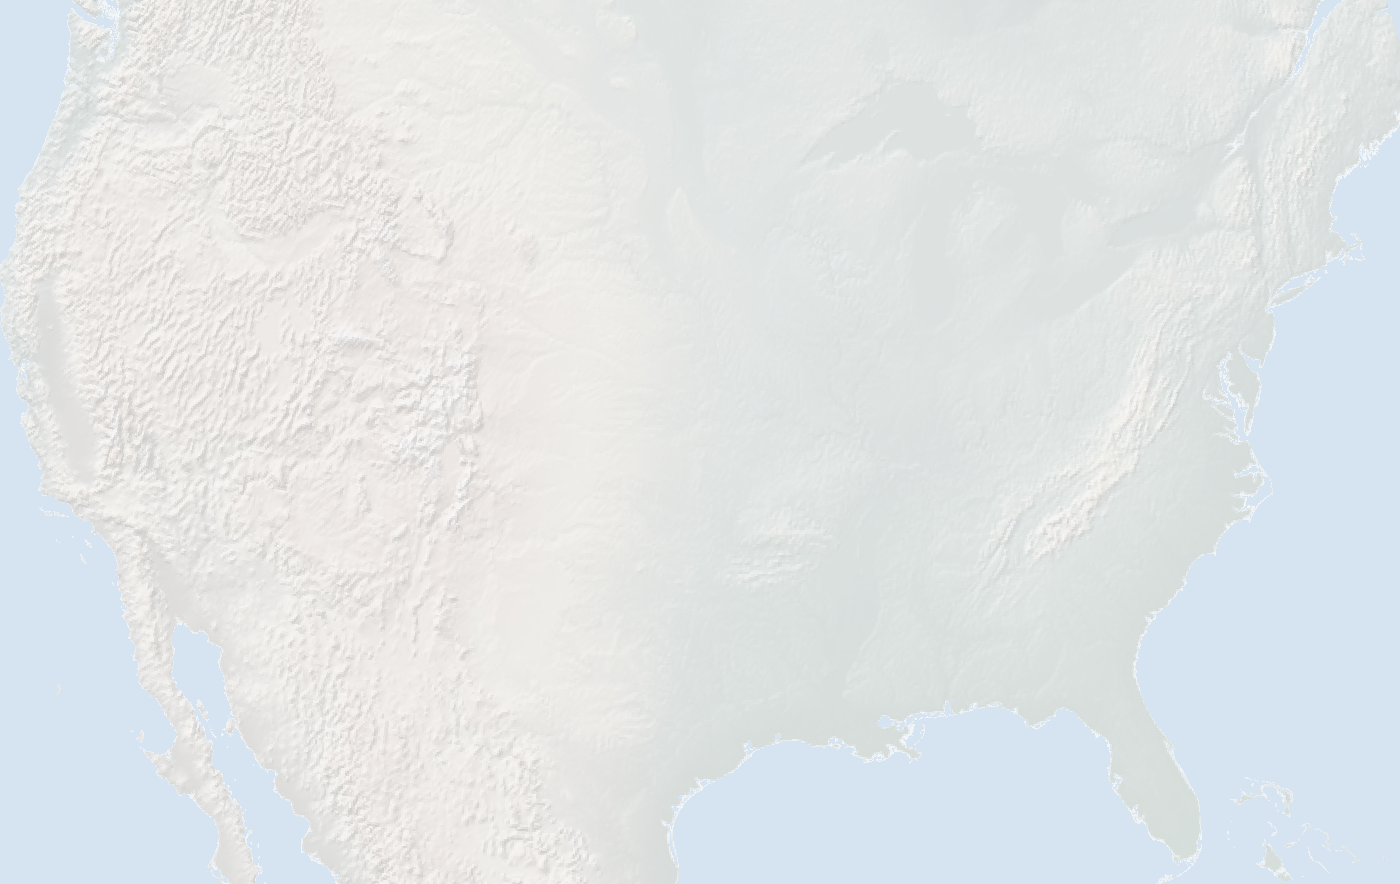
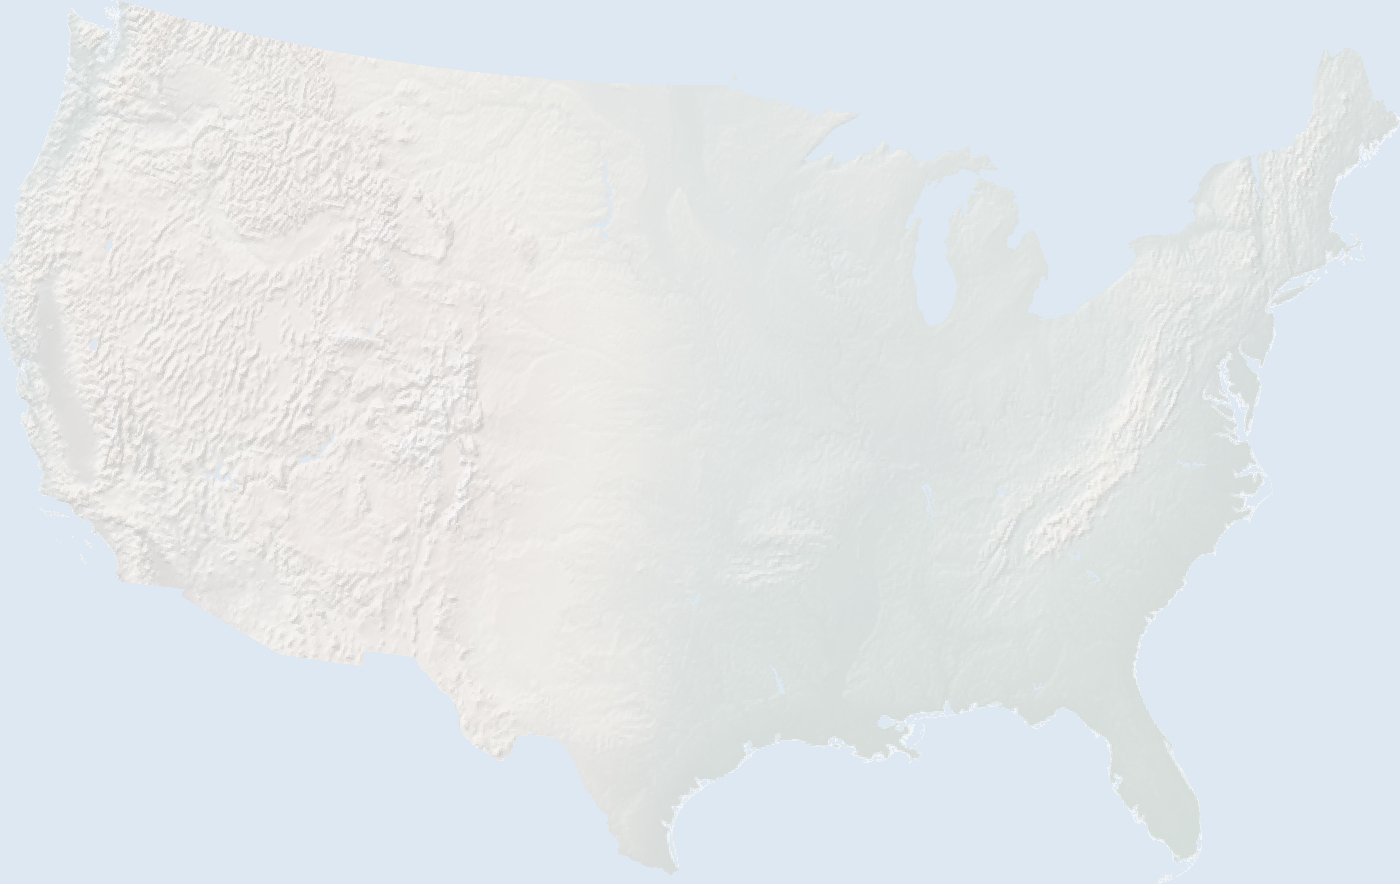
Fixed some visual issues with the basemap

diff --git a/index.html b/index.html
@@ -177,14 +177,17 @@ function drawMap(canvas,valueFn,opts={}){if(!MB)MB=computeMapBounds();const ctx=
     ctx.beginPath();ctx.arc(sel.x,sel.y,dr,0,6.2832);ctx.fillStyle=color(sel.v);ctx.fill();ctx.lineWidth=1.5;ctx.strokeStyle='#111';ctx.beginPath();ctx.arc(sel.x,sel.y,dr,0,6.2832);ctx.stroke();}}
 function drawBasemap(ctx,px,py,z,tx,ty,s){
   const dpr=Math.min(2,window.devicePixelRatio||1);
-  if(reliefImg&&reliefImg.complete&&reliefImg.naturalWidth){const dx=px(MB.minx)*z+tx,dy=py(MB.maxy)*z+ty,dw=(MB.maxx-MB.minx)*s*z,dh=(MB.maxy-MB.miny)*s*z;ctx.save();ctx.globalAlpha=0.55;ctx.drawImage(reliefImg,dx,dy,dw,dh);ctx.restore();}
+  // water as a full-canvas background (no rectangular relief edge when panning)
+  ctx.save();ctx.fillStyle='#dde8f3';ctx.fillRect(0,0,ctx.canvas.width,ctx.canvas.height);ctx.restore();
+  if(reliefImg&&reliefImg.complete&&reliefImg.naturalWidth){const dx=px(MB.minx)*z+tx,dy=py(MB.maxy)*z+ty,dw=(MB.maxx-MB.minx)*s*z,dh=(MB.maxy-MB.miny)*s*z;ctx.drawImage(reliefImg,dx,dy,dw,dh);}
   const T=(lon,lat)=>{const a=albers(lon,lat);return [px(a[0])*z+tx,py(a[1])*z+ty];};
   const trace=ring=>{ctx.beginPath();for(let i=0;i<ring.length;i++){const p=T(ring[i][0],ring[i][1]);if(i===0)ctx.moveTo(p[0],p[1]);else ctx.lineTo(p[0],p[1]);}};
-  if(BM.coast){ctx.strokeStyle='rgba(108,150,182,0.6)';ctx.lineWidth=Math.max(0.5,0.6*Math.min(2.5,Math.sqrt(z)))*dpr;for(const ln of BM.coast){trace(ln);ctx.stroke();}}
-  ctx.fillStyle='#dceaf6';for(const ring of BM.lakes){trace(ring);ctx.closePath();ctx.fill();}
+  if(BM.coast){ctx.strokeStyle='rgba(132,158,182,0.4)';ctx.lineWidth=Math.max(0.4,0.5*Math.min(2.2,Math.sqrt(z)))*dpr;for(const ln of BM.coast){trace(ln);ctx.stroke();}}
+  if(BM.lakes){ctx.fillStyle='#dceaf6';for(const ring of BM.lakes){trace(ring);ctx.closePath();ctx.fill();}}
   ctx.strokeStyle='rgba(130,175,210,0.5)';ctx.lineWidth=Math.max(0.5,0.6*Math.min(2,Math.sqrt(z)))*dpr;for(const ln of BM.rivers){trace(ln);ctx.stroke();}
   if(BM.roads){ctx.strokeStyle='rgba(210,160,110,0.35)';ctx.lineWidth=Math.max(0.45,0.55*Math.min(2,Math.sqrt(z)))*dpr;for(const ln of BM.roads){trace(ln);ctx.stroke();}}
   ctx.strokeStyle='rgba(120,128,140,0.16)';ctx.lineWidth=0.55*dpr;for(const ring of BM.states){trace(ring);ctx.stroke();}
+  if(BM.natl){ctx.strokeStyle='rgba(120,140,162,0.5)';ctx.lineWidth=Math.max(0.4,0.5*Math.min(2.2,Math.sqrt(z)))*dpr;for(const ln of BM.natl){trace(ln);ctx.stroke();}}
 }
 function hitTest(canvas,mx,my,pf=0){let best=null,bd=120;const v=canvas._view||{z:1,tx:0,ty:0},rows=DATA.rows;for(let i=0;i<rows.length;i++){const o=rows[i];if(curState&&o.state!==curState)continue;if(o.lat<24||o.lat>50||o.lon<-125||o.lon>-66)continue;if(pf&&(o.pop||0)<pf)continue;const[X,Y]=albers(o.lon,o.lat),cx=canvas._px(X)*v.z+v.tx,cy=canvas._py(Y)*v.z+v.ty,d=(cx-mx)**2+(cy-my)**2;if(d<bd){bd=d;best=o;}}return best;}
 function drawHist(canvas,col){const ctx=canvas.getContext('2d'),W=canvas.width,H=canvas.height;ctx.clearRect(0,0,W,H);const bins=new Array(20).fill(0);for(const o of DATA.rows){const v=o.s[col];if(v==null||Number.isNaN(v))continue;let b=Math.floor(v/5);if(b>19)b=19;if(b<0)b=0;bins[b]++;}const mx=Math.max(...bins),bw=W/20;for(let i=0;i<20;i++){const h=mx?bins[i]/mx*(H-2):0;ctx.fillStyle=color(i/19);ctx.fillRect(i*bw+1,H-h,bw-2,h);}}

diff --git a/tools/build_basemap.py b/tools/build_basemap.py
@@ -72,8 +72,8 @@ def poly_rings(geom,tol):
             for gg in g.geoms: add(gg)
     add(geom); return out
 
-# ---- GSHHS intermediate: land polys, coastline, lakes ----
-land_polys=[]; lake_polys=[]; coast=[]
+# ---- GSHHS intermediate: land polys (for relief mask) + lakes; coastline built later ----
+land_polys=[]; lake_polys=[]; l1_orig=[]
 for level,area,arr in read_segments('gshhs','i'):
     if len(arr)<4: continue
     try: pg=Polygon(arr)
@@ -81,16 +81,14 @@ for level,area,arr in read_segments('gshhs','i'):
     if not pg.is_valid: pg=pg.buffer(0)
     if not pg.intersects(BBOX): continue
     if level=='1':
+        l1_orig.append(pg)
         land_polys.append(pg.intersection(BBOX))
-        coast+=clip_geom(pg.boundary,BBOX,0.0035,0.05)
     elif level=='2':
         try:
             if float(area)<120: continue
         except: pass
         lake_polys.append(pg.intersection(BBOX))
-GLAND=unary_union([p for p in land_polys if not p.is_empty]).buffer(0)
-GLAND_IN=GLAND.simplify(0.01).buffer(-0.03)
-print("coast lines",len(coast),"pts",sum(len(s) for s in coast),"| land polys",len(land_polys),"| cand lakes",len(lake_polys))
+print("land polys",len(land_polys),"| cand lakes",len(lake_polys))
 
 # ---- STATE BORDERS (TIGER) dissolved, clipped to land (drops coast/bay-crossing) ----
 EXCL={'02','15','60','66','69','72','78'}
@@ -107,18 +105,51 @@ for srec in sf.iterShapeRecords():
 state_unions=[unary_union(gs) for gs in bystate.values()]
 US_LAND=unary_union(state_unions).buffer(0)
 US_RC=US_LAND.simplify(0.02)
+US_CLIP=US_LAND.buffer(0.05)        # clip all map layers to the lower-48 (+ small margin)
+US_IN=US_RC.buffer(-0.03)           # interior, to drop coastal/national edges from state borders
+borders_line=unary_union([u.simplify(0.02).boundary for u in state_unions])
+
+# state borders: interstate lines only, kept inside the US
 states=[]
 for u in state_unions:
-    states+=clip_geom(u.boundary,GLAND_IN,0.006,0.04)
+    states+=clip_geom(u.boundary,US_IN,0.006,0.04)
 print("state border lines",len(states),"pts",sum(len(s) for s in states))
 
-# ---- border-adjacent lakes (Great Lakes etc.), intermediate detail ----
-borders=unary_union([u.simplify(0.02).boundary for u in state_unions])
-lakes=[]
+# split lakes: border-adjacent (Great Lakes etc.) render as water; interior lakes stay land
+border_lakes=[]; interior_lakes=[]
 for pg in lake_polys:
-    if pg.distance(borders)<0.03:
-        lakes+=poly_rings(pg,0.01)
-print("border-adjacent lakes",len(lakes))
+    (border_lakes if pg.distance(borders_line)<0.03 else interior_lakes).append(pg)
+
+# coastline: US ocean coast + bays (level-1 boundary) + border-lake shores, clipped to the US
+coast=[]
+for pg in l1_orig:
+    coast+=clip_geom(pg.boundary,US_CLIP,0.0035,0.05)
+for pg in border_lakes:
+    coast+=clip_geom(pg.boundary,US_CLIP,0.01,0.05)
+print("coast lines",len(coast),"pts",sum(len(s) for s in coast))
+
+# national land borders (US–Canada / US–Mexico): the US outline adjacent to real foreign LAND.
+# Buffer the US outward first so the TIGER/GSHHS coastline mismatch (thin slivers along the
+# coast) and offshore water detail (Puget Sound islands, Florida keys, …) are excluded — only
+# the true inland borders remain. Densify so straight-in-lon/lat spans (49th parallel) render
+# as proper Albers curves; simplify first to drop the Rio Grande's heavy meander.
+GLAND=unary_union([p for p in land_polys if not p.is_empty]).buffer(0)
+FOREIGN=GLAND.difference(US_LAND.buffer(0.1))
+def densify(coords,step=0.3):
+    out=[coords[0]]
+    for a,b in zip(coords,coords[1:]):
+        n=max(1,int(math.hypot(b[0]-a[0],b[1]-a[1])/step))
+        for k in range(1,n+1): out.append((a[0]+(b[0]-a[0])*k/n,a[1]+(b[1]-a[1])*k/n))
+    return out
+natl=[]
+def collect_natl(g):
+    if g.is_empty: return
+    if g.geom_type=='LineString':
+        if g.length>0.08: natl.append([[round(x,3),round(y,3)] for x,y in densify(list(g.simplify(0.01).coords))])
+    elif g.geom_type in ('MultiLineString','GeometryCollection'):
+        for gg in g.geoms: collect_natl(gg)
+collect_natl(US_LAND.boundary.intersection(FOREIGN.buffer(0.12)))
+print("national border lines",len(natl),"pts",sum(len(s) for s in natl))
 
 # ---- rivers (low res, major) cropped to US land ----
 rivers=[]
@@ -137,21 +168,27 @@ for srec in rsf.iterShapeRecords():
     for k in range(len(parts)-1):
         seg=pts[parts[k]:parts[k+1]]
         if len(seg)<2: continue
-        roads+=clip_geom(LineString(seg),BBOX,0.008,0.03)
+        roads+=clip_geom(LineString(seg),US_CLIP,0.008,0.03)
 print("interstate lines",len(roads),"pts",sum(len(s) for s in roads))
 
-# ---- RELIEF raster (Albers MB grid): land=light relief, water=faint blue ----
+# ---- RELIEF raster: land = shaded relief; everything outside the lower-48 = transparent ----
 RW=1400; RH=int(round(RW/aspect))
-mask=Image.new('L',(RW,RH),0); md=ImageDraw.Draw(mask)
 def to_px(lon,lat):
     x,y=albers(lon,lat); return ((x-minx)/spanx*RW,(maxy-y)/spany*RH)
-def fill_geom(g):
-    if g.geom_type=='Polygon':
-        md.polygon([to_px(x,y) for x,y in g.exterior.coords],fill=255)
-    elif g.geom_type in ('MultiPolygon','GeometryCollection'):
-        for gg in g.geoms: fill_geom(gg)
-for p in land_polys: fill_geom(p)
-maskA=np.array(mask)
+def rasterize(geoms):
+    im=Image.new('L',(RW,RH),0); d=ImageDraw.Draw(im)
+    def fill(g):
+        if g.geom_type=='Polygon': d.polygon([to_px(x,y) for x,y in g.exterior.coords],fill=255)
+        elif g.geom_type in ('MultiPolygon','GeometryCollection'):
+            for gg in g.geoms: fill(gg)
+    for g in geoms:
+        if not g.is_empty: fill(g)
+    return np.array(im)>0
+gmask=rasterize(land_polys)        # GSHHS land (continent; does NOT cut out the Great Lakes)
+usmask=rasterize([US_LAND])        # lower-48 land (TIGER; includes bays + lakes)
+imask=rasterize(interior_lakes)    # small interior lakes -> keep as land
+blmask=rasterize(border_lakes)     # Great Lakes etc. -> force to water
+landmask=usmask & (gmask | imask) & (~blmask)   # US land, minus ocean/bays/Great-Lakes, plus interior lakes
 src=Image.open(os.path.join(BD,"shadedrelief.jpg")).convert('RGB').resize((5400,2700))
 S=np.asarray(src); SH,SW,_=S.shape
 js,is_=np.meshgrid(np.arange(RW),np.arange(RH))
@@ -164,15 +201,16 @@ rowi=np.clip(((90-lat)/180*SH).astype(int),0,SH-1)
 samp=S[rowi,col]
 gray=(0.299*samp[...,0]+0.587*samp[...,1]+0.114*samp[...,2])[...,None]
 land_rgb=np.clip(255-(255-(samp*0.5+gray*0.5))*0.32,0,255)
-water=np.array([214,228,241],dtype=float)
-m=(maskA>0)[...,None]
-rgb=np.where(m,land_rgb,water).astype(np.uint8)
-alpha=np.full((RH,RW),255,dtype=np.uint8)
+# Fully OPAQUE image (no alpha channel — avoids Safari's transparent-PNG canvas issues):
+# land = shaded relief, everything else = the EXACT water color the app paints as its
+# background, so the relief rectangle's edge is invisible and panning never shows a seam.
+WATER=np.array([221,232,243],dtype=np.uint8)   # must equal the app's water fill (#dde8f3)
+rgb=np.where(landmask[...,None],land_rgb.astype(np.uint8),WATER).astype(np.uint8)
 ASSETS=PROJ+"assets/"; os.makedirs(ASSETS,exist_ok=True)
-Image.fromarray(np.dstack([rgb,alpha]),'RGBA').save(ASSETS+"relief.png")
+Image.fromarray(rgb,'RGB').save(ASSETS+"relief.png")
 print("relief",RW,"x",RH,"->",round(os.path.getsize(ASSETS+'relief.png')/1024),"KB")
 
-bm={"mb":[minx,maxx,miny,maxy],"states":states,"rivers":rivers,"lakes":lakes,"roads":roads,"coast":coast}
+bm={"mb":[minx,maxx,miny,maxy],"states":states,"natl":natl,"rivers":rivers,"roads":roads,"coast":coast}
 js_json=json.dumps(bm,separators=(',',':'))
 open(ASSETS+"basemap.json","w").write(js_json)
 print("assets/basemap.json KB",round(os.path.getsize(ASSETS+'basemap.json')/1024),"| assets/relief.png KB",round(os.path.getsize(ASSETS+'relief.png')/1024))